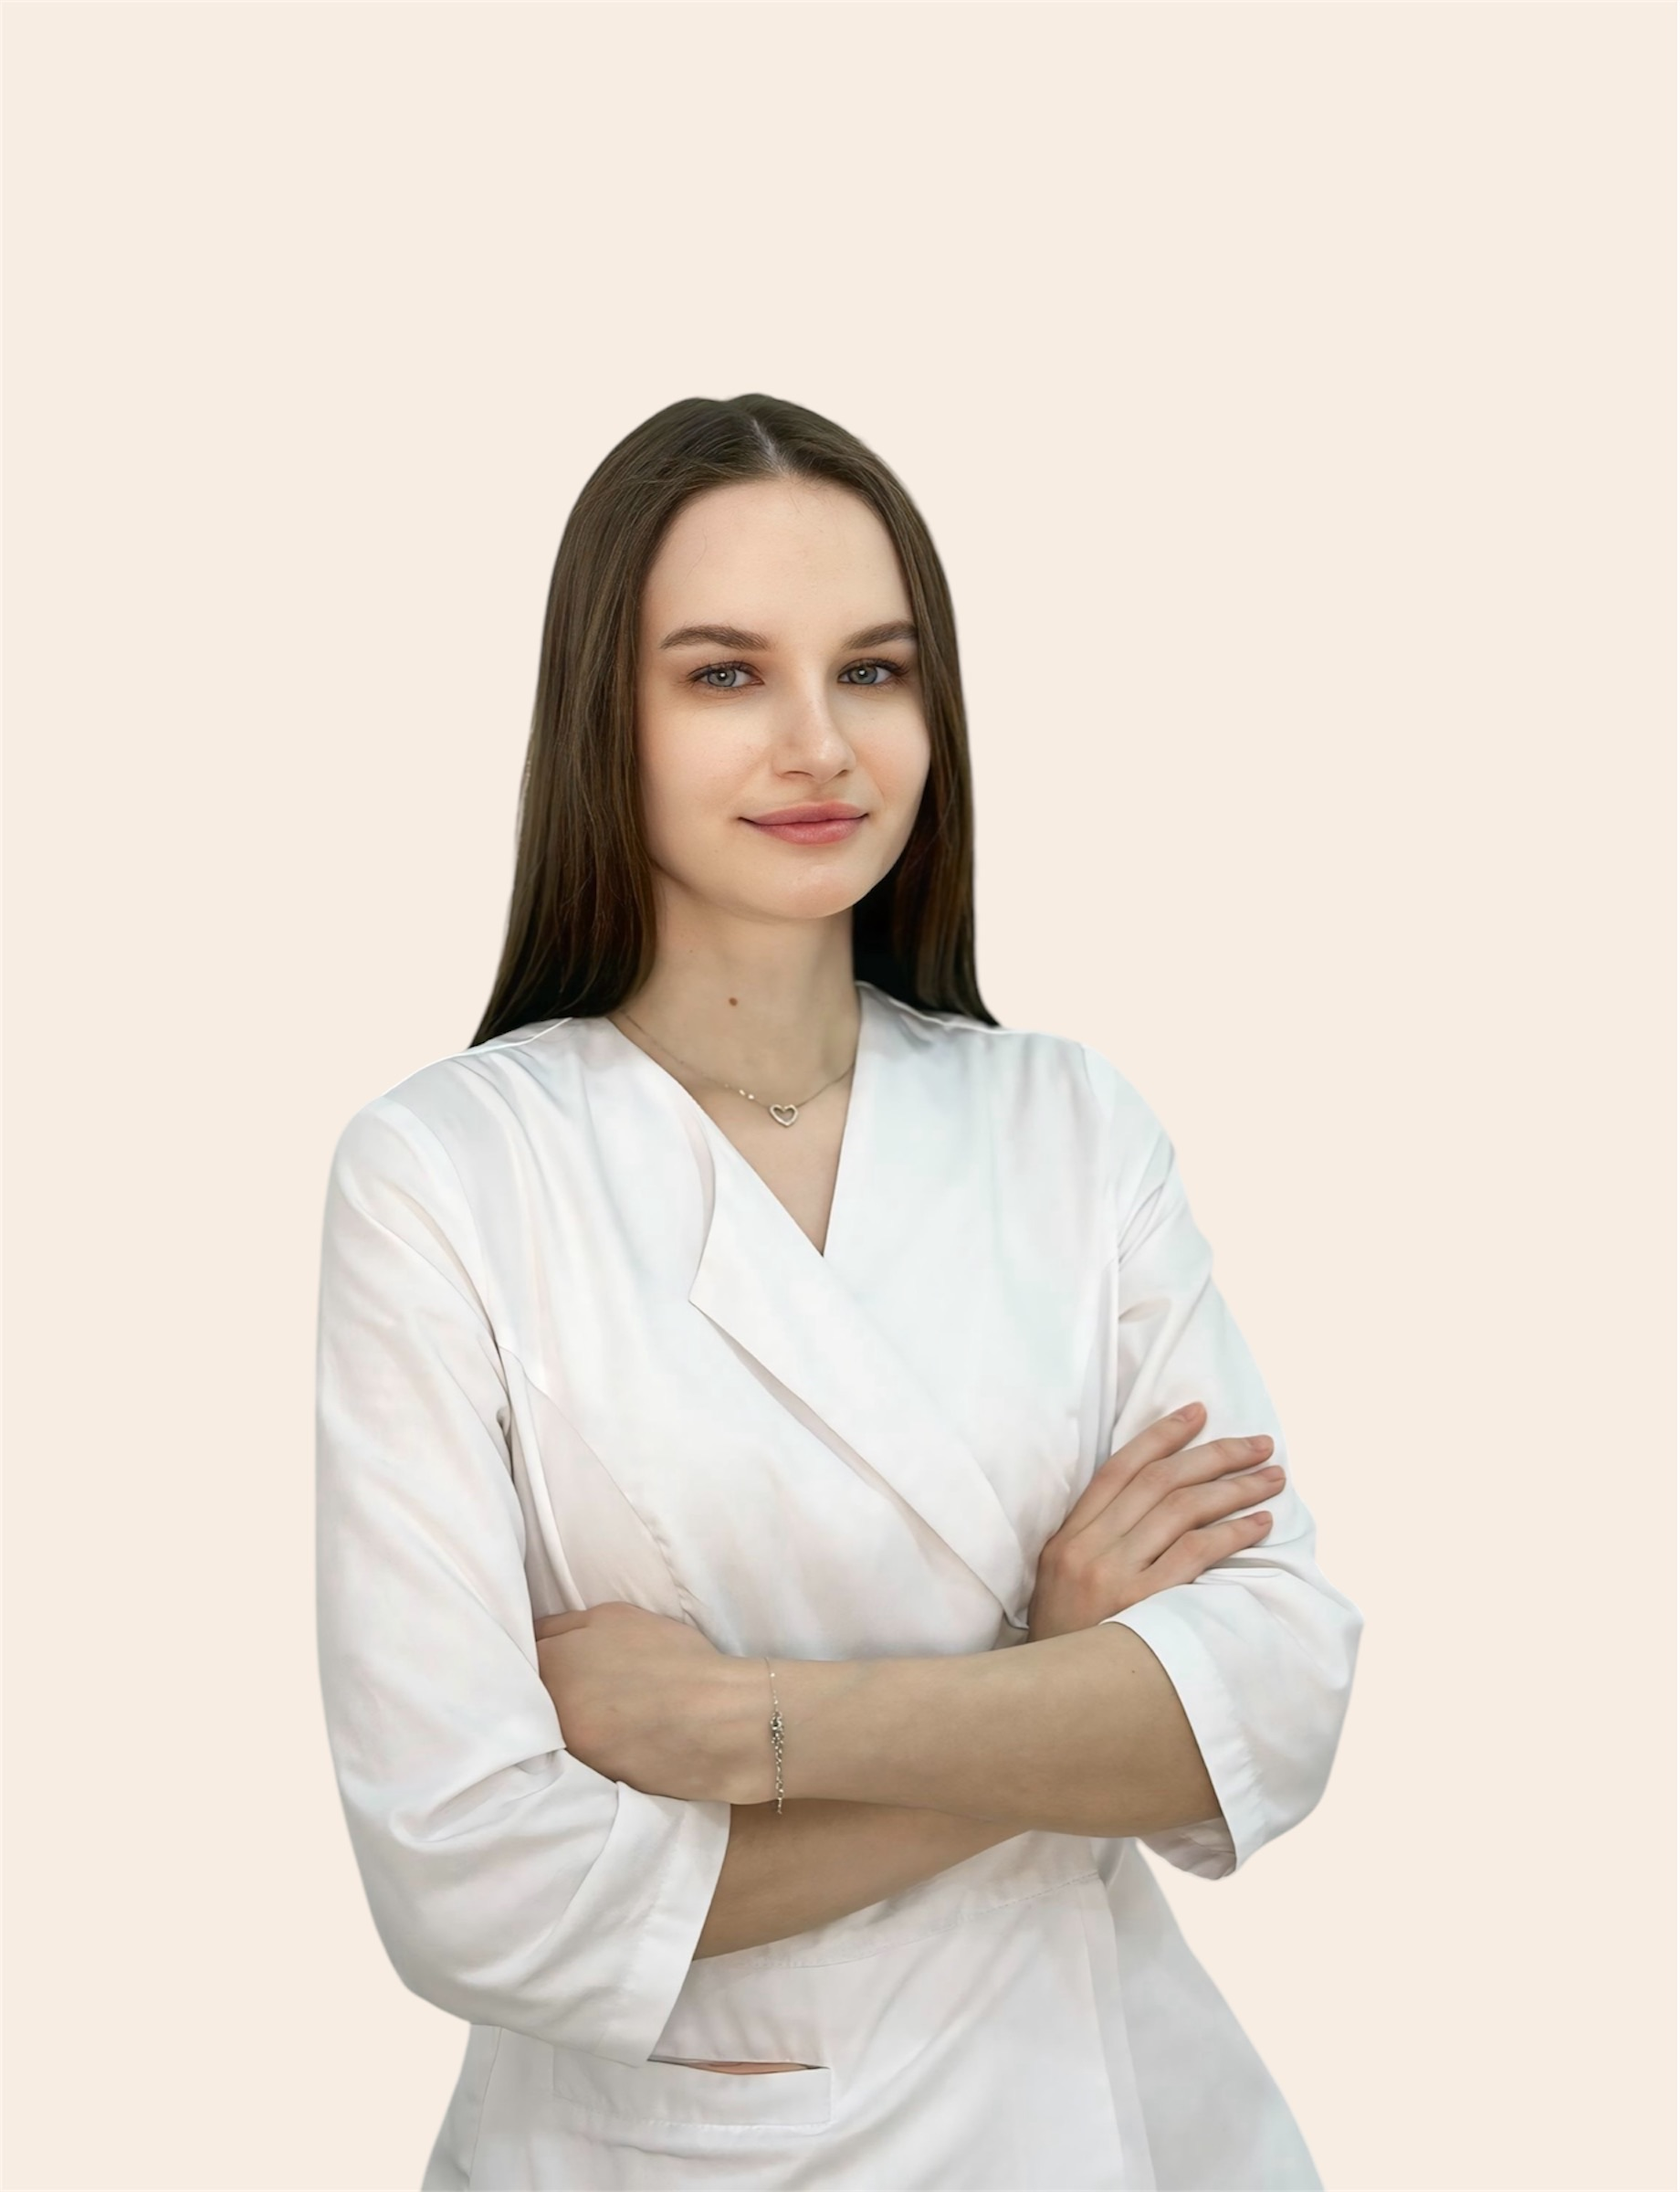
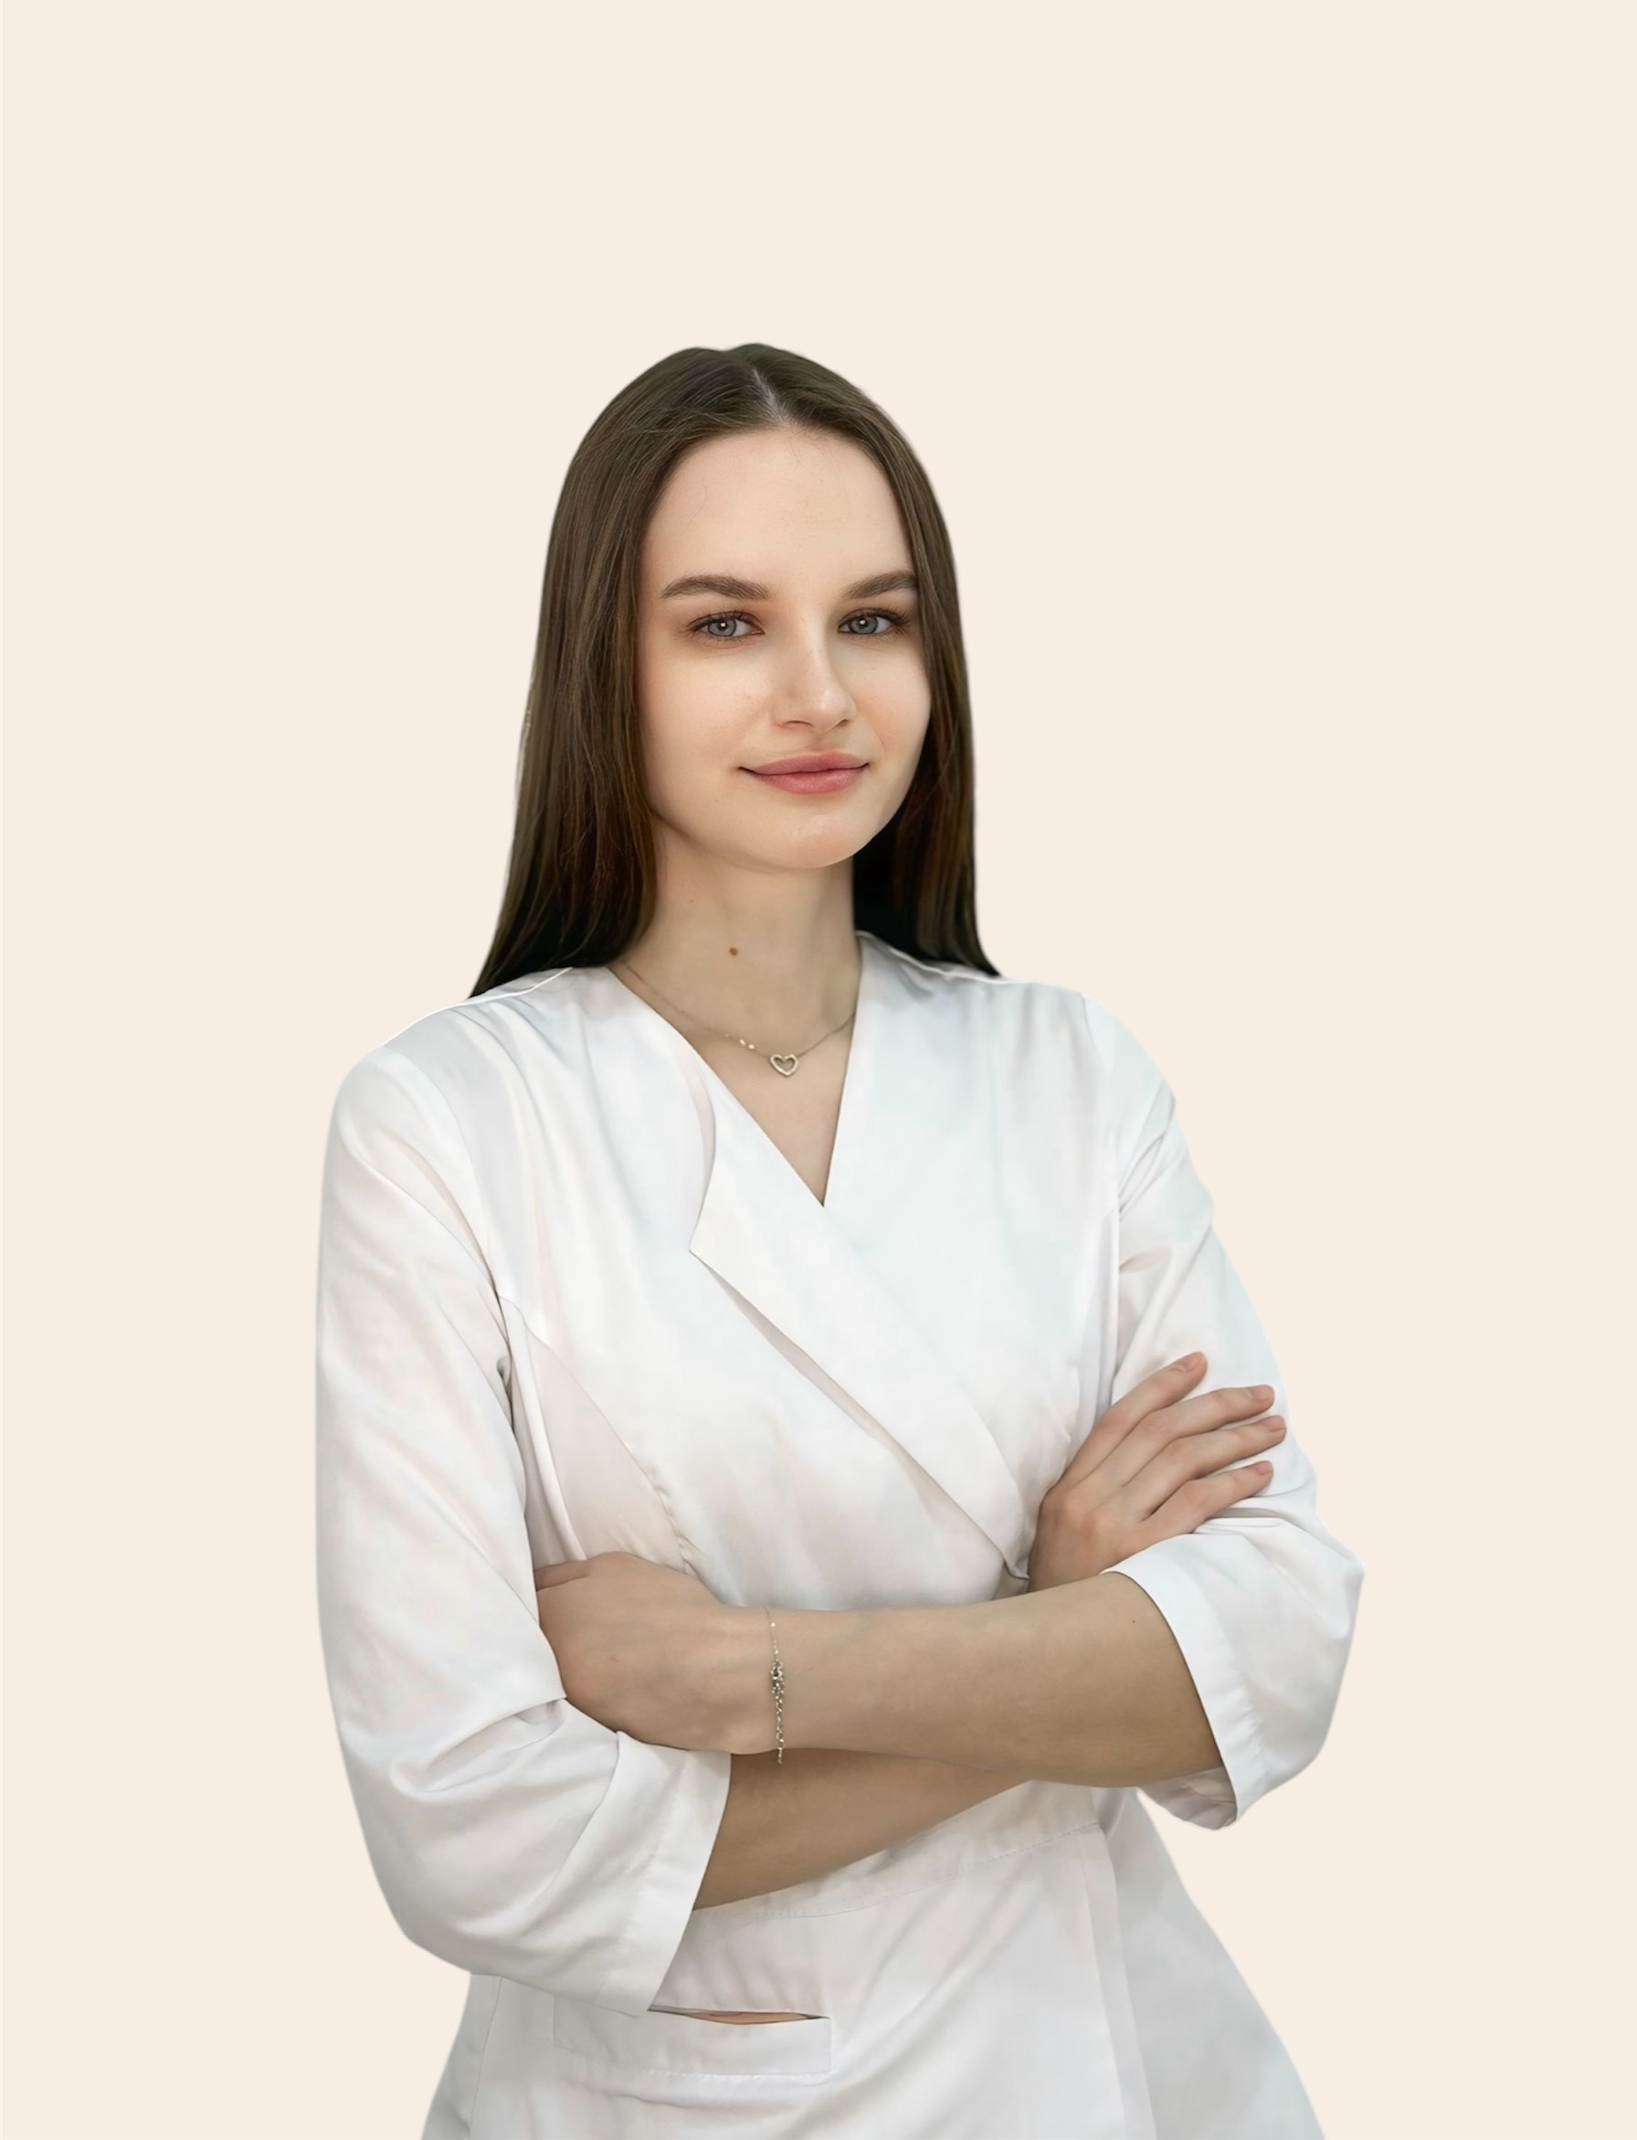
Vova correction

diff --git a/css/style.css b/css/style.css
@@ -142,7 +142,7 @@
   --third-color: #daaa3e;
   --forth-color: #901c1f;
   --text-color: #202020;
-  --padding-top: 2em;
+  --padding-top: 0em;
 }
 html {
   font-family:Rawline, sans-serif;
@@ -197,8 +197,9 @@ body {
   flex: 1;
   display: flex;
   flex-direction: column;
-  justify-content: end;
+  justify-content: center;
   padding: 3.5em;
+  padding-top: 10em;
   position: relative;
 }
 .video-side {
@@ -606,13 +607,13 @@ header.scrolled {
 }
 
 .staff-card {
-  aspect-ratio: 2/3;
+  aspect-ratio: 5/6;
+  background-position:bottom;
   border-radius: 1rem;
   overflow: hidden;
   position: relative;
   box-shadow: 0 4px 10px rgba(0,0,0,0.1);
   background-size: cover;
-  background-position: top center;
   position: relative;
   display: flex; 
   flex-direction: column; 
@@ -623,10 +624,9 @@ header.scrolled {
 
 .staff-info {
   text-shadow: 0rem 0px 1rem #ffffffdb;
-  padding: 1.5rem;
+  padding: 1.5rem 0;
   padding-top: 3rem;
   text-align: center;
-  /* min-height: 13em; */
   background-image: 
     linear-gradient(to bottom, 
       rgba(0, 0, 0, 0) 0%, 
@@ -826,6 +826,9 @@ footer {
   }
 }
 @media (width>900px) {
+  :root {
+    --padding-top: 2em;
+  }
   .slogan-text {
     display: block;
   }
